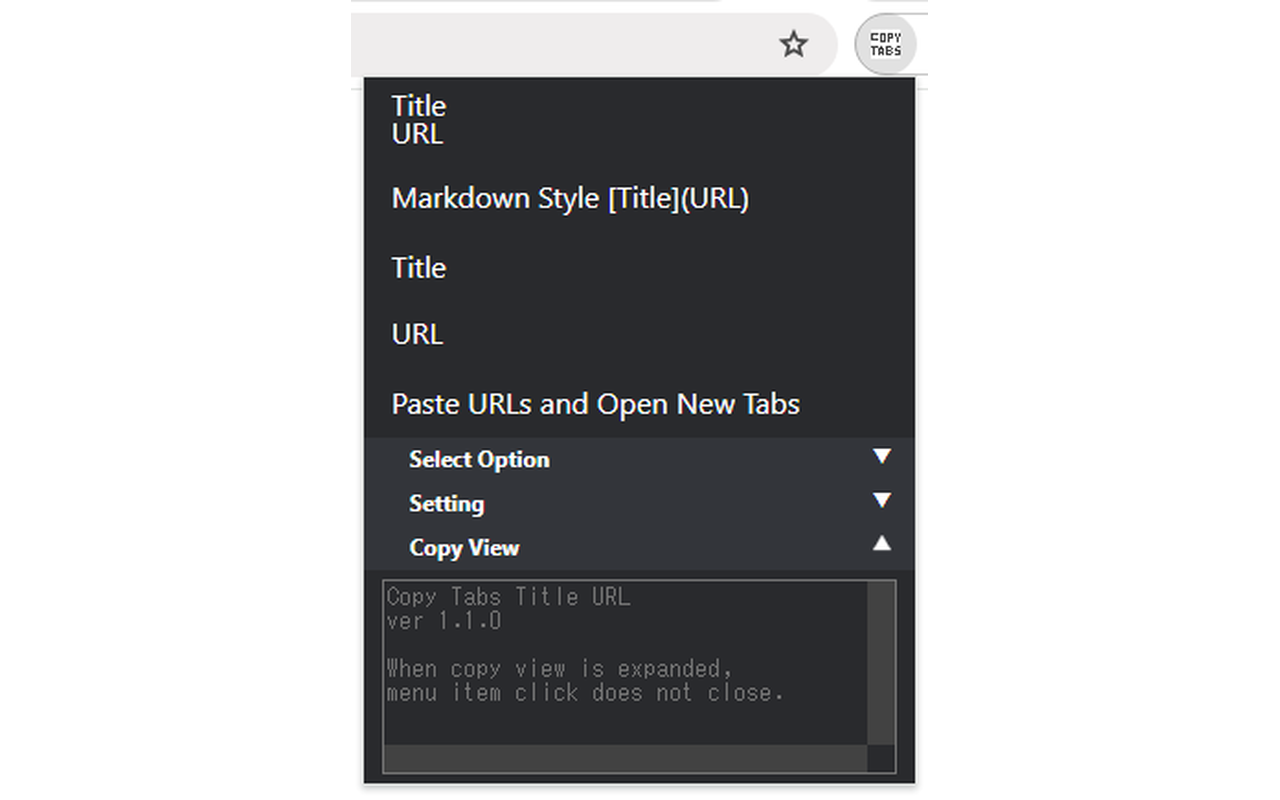
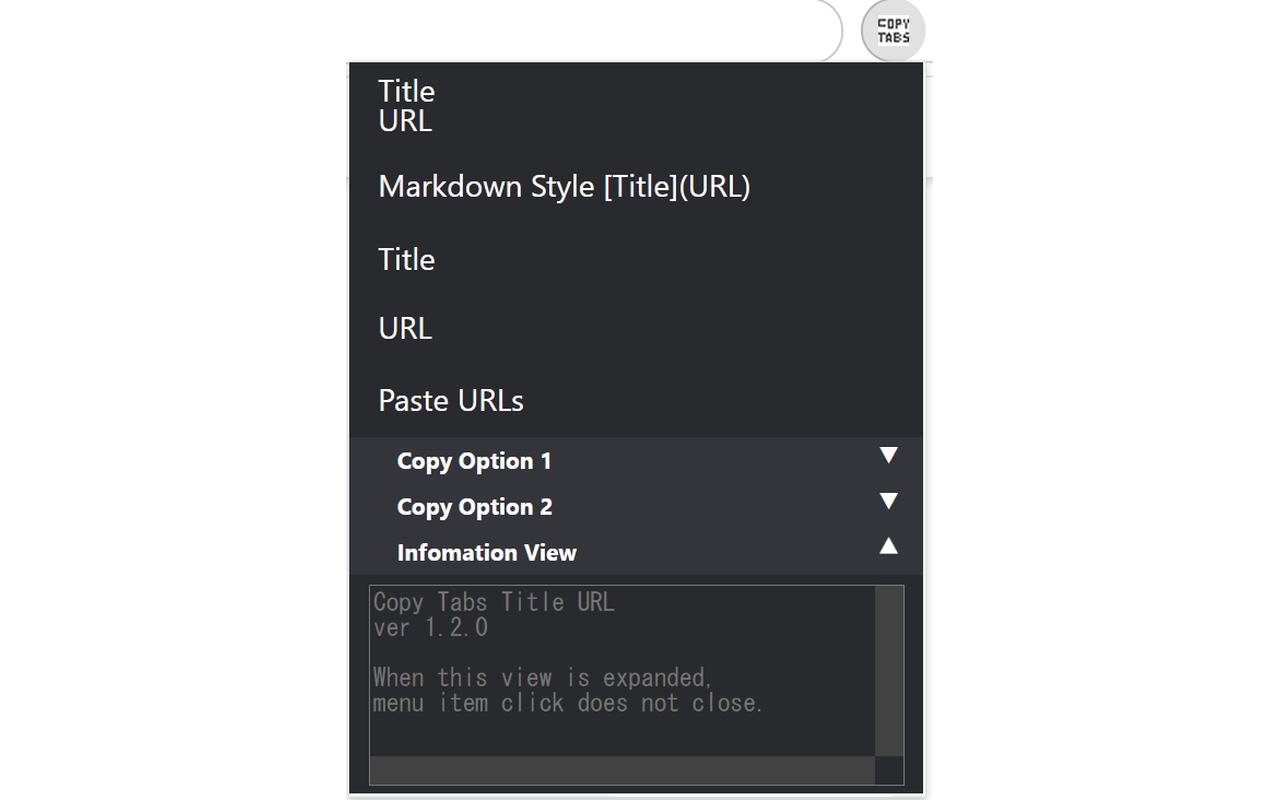
v1.2.0

Changed region(s): [[0.25, 0.0, 0.75, 1.0]]

diff --git a/copy-tabs-title-url/index.js b/copy-tabs-title-url/index.js
@@ -289,8 +289,8 @@ const onClickAccordionInfoView = e => {
 
 document.addEventListener("DOMContentLoaded", () => {
   document.querySelector("#infoView").placeholder =
-    "Copy Tabs Title URL\nver 1.2.0 β\n\n" +
-    "When copy view is expanded,\nmenu item click does not close."
+    "Copy Tabs Title URL\nver 1.2.0\n\n" +
+    "When this view is expanded,\nmenu item click does not close."
 
   document.querySelectorAll(".copy-tabs-title-url_menu-item").forEach(el => {
     el.addEventListener("click", onClickMenuItem);

diff --git a/copy-tabs-title-url/index.html b/copy-tabs-title-url/index.html
@@ -81,7 +81,7 @@
             align-content: center;
           "
         >
-          Paste URLs and Open New Tabs
+          Paste URLs
         </div>
       </li>
     </ul>
@@ -183,7 +183,7 @@
         <input id="accordionInfoView" type="checkbox">
         <label for="accordionInfoView">
           <div>
-            Copy View
+            Infomation View
           </div>
         </label>
         <div class="accordion-content copy-view-container">

diff --git a/README.md b/README.md
@@ -12,16 +12,16 @@ https://github.com/standard-software/chrome-copy-tabs-title-url
 
 ## Screenshot
 
-Copy Tabs Menu Items
+Menu Items
 ![menu1](./image/menu_1.png)
 
-Expand Copy View
+Copy Option 1
 ![menu2](./image/menu_2.png)
 
-Expand Select Option
+Copy Option 2
 ![menu3](./image/menu_3.png)
 
-Expand Setting
+Information View
 ![menu3](./image/menu_4.png)
 
 ## Feature
@@ -35,17 +35,17 @@ Copy the title and URL from a Chrome tabs.
 - URL
 - Paste URLs and Open New Tabs
 
-### Select Option
-- URL: Delete Parameter after[?]
+### Copy Option 1
 - Title: Remove Bracketed (---)
+- Title: Delete after delimiter [ -  ] [ · ] [ – ] [ | ]
 - Title: Replace Space Zenkaku to Hankaku (Japanese Space Char type)
-- Title: Remove Answer's On Quora (English and Japanese)
-- Title: Remove User Org On GitHub PR
+- URL: Delete Parameter after[?]
 
-### Setting
+### Copy Option 2
+- Title: Remove Username On GitHub PR
+- Title: Remove Answer's On Quora (English and Japanese)
 - URL: Short Amazon (.com and .co.jp)
 - URL: No Encode Japanese
-- URL: Blacket () -> %28 %29
 
 ## How to Install for developer
 
@@ -61,11 +61,10 @@ Copy the title and URL from a Chrome tabs.
 
 ## Version
 
-### 1.2.0β
-2024/05/17 Fri
-- Add Setting
-  - URL: Blacket () -> %28 %29
+### 1.2.0
+2024/05/21 Tue
 - update menu structure
+- update storege key
 - Add Function
   - Title: Delete after delimiter
 
